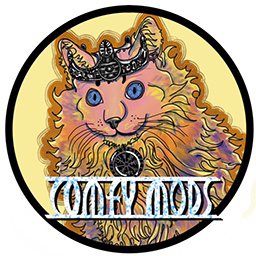
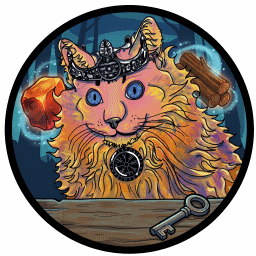
Update PutMeDown to `v1.3.0`.
* Updated for the `v1.0.21` patch.
* Migrated to SDK-style project.
* Updated mod-icon.
* Minor code clean-up and refactoring.

diff --git a/PutMeDown/ComfyLib/Config/ToggleStringListConfigEntry.cs b/PutMeDown/ComfyLib/Config/ToggleStringListConfigEntry.cs
@@ -1,8 +1,7 @@
-namespace ComfyLib;
+namespace ComfyLib;
 
 using System;
 using System.Collections.Generic;
-using System.Linq;
 
 using BepInEx.Configuration;
 
@@ -33,21 +32,30 @@ public sealed class ToggleStringListConfigEntry {
     SettingChanged?.Invoke(this, ToggledStringValues());
   }
 
-  static readonly char[] _valueSeparator = { ',' };
-  static readonly char[] _toggleSeperator = { '=' };
-
-  readonly List<string> _valuesCache = new();
+  readonly List<string> _valuesCache = [];
   string _valueText = string.Empty;
+
+  static bool IsToggledOn(ReadOnlySpan<char> value) {
+    return value.Length == 1 && value[0] == '1';
+  }
 
   public string[] ToggledStringValues() {
     _valuesCache.Clear();
-    string[] values = BaseConfigEntry.Value.Split(_valueSeparator, StringSplitOptions.RemoveEmptyEntries);
+    ReadOnlySpan<char> span = BaseConfigEntry.Value.AsSpan();
 
-    for (int i = 0, count = values.Length; i < count; i++) {
-      string[] parts = values[i].Split(_toggleSeperator, 2, StringSplitOptions.RemoveEmptyEntries);
+    while (!span.IsEmpty) {
+      int commaIndex = span.IndexOf(',');
+      ReadOnlySpan<char> entry = commaIndex >= 0 ? span[..commaIndex] : span;
+      span = commaIndex >= 0 ? span[(commaIndex + 1)..] : [];
 
-      if (parts.Length >= 2 && parts[1] == "1") {
-        _valuesCache.Add(parts[0]);
+      if (entry.IsEmpty) {
+        continue;
+      }
+
+      int equalsIndex = entry.IndexOf('=');
+
+      if (equalsIndex > 0 && IsToggledOn(entry[(equalsIndex + 1)..])) {
+        _valuesCache.Add(entry[..equalsIndex].ToString());
       }
     }
 
@@ -58,9 +66,17 @@ public sealed class ToggleStringListConfigEntry {
     GUILayout.BeginVertical(GUILayout.ExpandWidth(true));
 
     _valuesCache.Clear();
+    ReadOnlySpan<char> span = BaseConfigEntry.Value.AsSpan();
 
-    _valuesCache.AddRange(
-        configEntry.BoxedValue.ToString().Split(_valueSeparator, StringSplitOptions.RemoveEmptyEntries));
+    while (!span.IsEmpty) {
+      int commaIndex = span.IndexOf(',');
+      ReadOnlySpan<char> entry = commaIndex >= 0 ? span[..commaIndex] : span;
+      span = commaIndex >= 0 ? span[(commaIndex + 1)..] : [];
+
+      if (!entry.IsEmpty) {
+        _valuesCache.Add(entry.ToString());
+      }
+    }
 
     GUILayout.BeginHorizontal();
     bool toggleOnClicked = GUILayout.Button("Toggle On", GUILayout.ExpandWidth(true));
@@ -71,12 +87,14 @@ public sealed class ToggleStringListConfigEntry {
     int removeIndex = -1;
 
     for (int i = 0, count = _valuesCache.Count; i < count; i++) {
-      string[] parts = _valuesCache[i].Split(_toggleSeperator, 2, StringSplitOptions.RemoveEmptyEntries);
-      bool isToggled = parts.Length >= 2 && parts[1] == "1";
+      ReadOnlySpan<char> entry = _valuesCache[i].AsSpan();
+      int equalsIndex = entry.IndexOf('=');
+      bool isToggled = equalsIndex > 0 && IsToggledOn(entry[(equalsIndex + 1)..]);
+      string label = equalsIndex > 0 ? entry[..equalsIndex].ToString() : _valuesCache[i];
 
       GUILayout.BeginHorizontal();
 
-      bool result = GUILayout.Toggle(isToggled, parts[0], GUILayout.ExpandWidth(true));
+      bool result = GUILayout.Toggle(isToggled, label, GUILayout.ExpandWidth(true));
 
       if (GUILayout.Button("\u2212", GUILayout.MinWidth(40f), GUILayout.ExpandWidth(false))) {
         removeIndex = i;
@@ -92,7 +110,7 @@ public sealed class ToggleStringListConfigEntry {
 
       if (result != isToggled) {
         hasChanged = true;
-        _valuesCache[i] = parts[0] + (result ? "=1" : "=0");
+        _valuesCache[i] = label + (result ? "=1" : "=0");
       }
     }
 
@@ -128,7 +146,7 @@ public sealed class ToggleStringListConfigEntry {
     }
 
     if (hasChanged) {
-      configEntry.BoxedValue = string.Join(",", _valuesCache);
+      BaseConfigEntry.Value = string.Join(",", _valuesCache);
     }
   }
 
@@ -155,7 +173,7 @@ public sealed class ToggleStringListConfigEntry {
     public AutoCompleteBox(Func<IEnumerable<SearchOption>> searchOptionsFunc) {
       _searchOptionsFunc = searchOptionsFunc;
       _options = null;
-      _currentOptions = new();
+      _currentOptions = [];
       _value = string.Empty;
       _scrollPosition = Vector2.zero;
     }
@@ -163,18 +181,7 @@ public sealed class ToggleStringListConfigEntry {
     public string DrawBox(string value) {
       if (_value != value) {
         _value = value;
-        _currentOptions.Clear();
-
-        if (!string.IsNullOrEmpty(value)) {
-          _options ??= new(_searchOptionsFunc());
-
-          _currentOptions.AddRange(
-              _options.Where(
-                  option =>
-                      option.DisplayValue.IndexOf(value, StringComparison.InvariantCultureIgnoreCase) >= 0
-                      || option.OptionValue.StartsWith(value, StringComparison.InvariantCultureIgnoreCase)));
-        }
-
+        FilterOptions(_value);
         _scrollPosition = Vector2.zero;
       }
 
@@ -183,6 +190,23 @@ public sealed class ToggleStringListConfigEntry {
       }
 
       return DrawCurrentOptions();
+    }
+
+    void FilterOptions(string query) {
+      _currentOptions.Clear();
+
+      if (string.IsNullOrEmpty(query)) {
+        return;
+      }
+
+      _options ??= [.. _searchOptionsFunc()];
+
+      foreach (SearchOption option in _options) {
+        if (option.DisplayValue.IndexOf(query, StringComparison.OrdinalIgnoreCase) >= 0
+            || option.OptionValue.StartsWith(query, StringComparison.OrdinalIgnoreCase)) {
+          _currentOptions.Add(option);
+        }
+      }
     }
 
     string DrawCurrentOptions() {

diff --git a/PutMeDown/Config/PluginConfig.cs b/PutMeDown/Config/PluginConfig.cs
@@ -1,11 +1,12 @@
-namespace PutMeDown;
+namespace PutMeDown;
 
 using System.Collections.Generic;
-using System.Linq;
 
 using BepInEx.Configuration;
 
 using ComfyLib;
+
+using UnityEngine;
 
 public static class PluginConfig {
   public static ConfigEntry<bool> IsModEnabled { get; private set; }
@@ -18,7 +19,12 @@ public static class PluginConfig {
 
   [ComfyConfig]
   public static void BindConfig(ConfigFile config) {
-    IsModEnabled = config.BindInOrder("_Global", "isModEnabled", true, "Globally enable or disable this mod.");
+    IsModEnabled =
+        config.BindInOrder(
+            "_Global",
+            "isModEnabled",
+            true,
+            "Globally enable or disable this mod.");
   }
 
   [ComfyConfig(LateBind = true)]
@@ -72,7 +78,7 @@ public static class PluginConfig {
     CycleItemsToIgnoreConfig();
   }
 
-  static readonly List<ToggleStringListConfigEntry> _itemsToIgnoreConfigs = new();
+  static readonly List<ToggleStringListConfigEntry> _itemsToIgnoreConfigs = [];
   static int _itemsToIgnoreConfigIndex = -1;
   static ToggleStringListConfigEntry _itemsToIgnoreConfig = default;
 
@@ -93,19 +99,20 @@ public static class PluginConfig {
     }
   }
 
-  public static IEnumerable<ToggleStringListConfigEntry.SearchOption> GetItemDropSearchOptions() {
-    return ObjectDB.m_instance.m_items
-        .Where(
-            item =>
-                item.TryGetComponent(out ItemDrop itemDrop)
-                && itemDrop.m_autoPickup
-                && itemDrop.m_itemData.m_shared.m_icons.Length > 0
-                && !string.IsNullOrEmpty(itemDrop.m_itemData.m_shared.m_description))
-        .Select(
-            item =>
-                new ToggleStringListConfigEntry.SearchOption(
-                    item.name,
-                    Localization.m_instance.Localize(item.GetComponent<ItemDrop>().m_itemData.m_shared.m_name)
-                        + $" ({item.name})"));
+  public static List<ToggleStringListConfigEntry.SearchOption> GetItemDropSearchOptions() {
+    List<ToggleStringListConfigEntry.SearchOption> options = [];
+
+    foreach (GameObject item in ObjectDB.m_instance.m_items) {
+      if (item.TryGetComponent(out ItemDrop itemDrop)
+          && itemDrop.m_autoPickup
+          && itemDrop.m_itemData.m_shared.m_icons.Length > 0
+          && !string.IsNullOrEmpty(itemDrop.m_itemData.m_shared.m_description)) {
+        string name = Localization.m_instance.Localize(itemDrop.m_itemData.m_shared.m_name);
+
+        options.Add(new(item.name, $"{name} ({item.name})"));
+      }
+    }
+
+    return options;
   }
 }

diff --git a/PutMeDown/Patches/PlayerPatch.cs b/PutMeDown/Patches/PlayerPatch.cs
@@ -1,4 +1,4 @@
-namespace PutMeDown;
+namespace PutMeDown;
 
 using System.Collections.Generic;
 using System.Reflection.Emit;
@@ -13,21 +13,21 @@ static class PlayerPatch {
   [HarmonyPatch(nameof(Player.AutoPickup))]
   static IEnumerable<CodeInstruction> AutoPickupTranspiler(IEnumerable<CodeInstruction> instructions) {
     return new CodeMatcher(instructions)
-        .MatchForward(
-            useEnd: false,
+        .Start()
+        .MatchStartForward(
             new CodeMatch(OpCodes.Ldloc_S),
             new CodeMatch(OpCodes.Ldfld, AccessTools.Field(typeof(ItemDrop), nameof(ItemDrop.m_autoPickup))))
-        .ThrowIfInvalid("Could not patch Player.AutoPickup()! (m_autoPickup)")
+        .ThrowIfInvalid("Could not patch Player.AutoPickup()! (auto-pickup)")
         .CopyInstruction(out CodeInstruction loadItemDropInstruction)
         .Advance(offset: 2)
         .InsertAndAdvance(
             loadItemDropInstruction,
-            Transpilers.EmitDelegate(AutoPickupDelegate))
+            new CodeInstruction(OpCodes.Call, AccessTools.Method(typeof(PlayerPatch), nameof(AutoPickupDelegate))))
         .InstructionEnumeration();
   }
 
   static CodeMatcher CopyInstruction(this CodeMatcher matcher, out CodeInstruction instruction) {
-    instruction = matcher.Instruction;
+    instruction = new CodeInstruction(matcher.Opcode, matcher.Operand);
     return matcher;
   }
 
@@ -43,15 +43,14 @@ static class PlayerPatch {
   [HarmonyPatch(nameof(Player.Update))]
   static IEnumerable<CodeInstruction> UpdateTranspiler(IEnumerable<CodeInstruction> instructions) {
     return new CodeMatcher(instructions)
-        .MatchForward(
-            useEnd: false,
-            new CodeMatch(OpCodes.Ldarg_0),
+        .Start()
+        .MatchStartForward(
             new CodeMatch(OpCodes.Call, AccessTools.Method(typeof(Player), nameof(Player.UpdateHover))))
-        .ThrowIfInvalid("Could not patch Player.Update()! (UpdateHover)")
-        .Advance(offset: 2)
+        .ThrowIfInvalid($"Could not patch Player.Update()! (update-hover)")
+        .Advance(offset: 1)
         .InsertAndAdvance(
             new CodeInstruction(OpCodes.Ldloc_1),
-            Transpilers.EmitDelegate(UpdateHoverPostDelegate))
+            new CodeInstruction(OpCodes.Call, AccessTools.Method(typeof(PlayerPatch), nameof(UpdateHoverPostDelegate))))
         .InstructionEnumeration();
   }
 

diff --git a/PutMeDown/PutMeDown.cs b/PutMeDown/PutMeDown.cs
@@ -1,4 +1,4 @@
-namespace PutMeDown;
+namespace PutMeDown;
 
 using System;
 using System.Globalization;
@@ -15,20 +15,15 @@ using HarmonyLib;
 public sealed class PutMeDown : BaseUnityPlugin {
   public const string PluginGuid = "redseiko.valheim.putmedown";
   public const string PluginName = "PutMeDown";
-  public const string PluginVersion = "1.2.0";
+  public const string PluginVersion = "1.3.0";
 
   static ManualLogSource _logger;
-  Harmony _harmony;
 
   void Awake() {
     _logger = Logger;
     ComfyConfigUtils.BindConfig(Config);
 
-    _harmony = Harmony.CreateAndPatchAll(Assembly.GetExecutingAssembly(), harmonyInstanceId: PluginGuid);
-  }
-
-  void OnDestroy() {
-    _harmony?.UnpatchSelf();
+    Harmony.CreateAndPatchAll(Assembly.GetExecutingAssembly(), harmonyInstanceId: PluginGuid);
   }
 
   public static void LogInfo(object obj) {

diff --git a/PutMeDown/ComfyLib/Config/ComfyConfig.cs b/PutMeDown/ComfyLib/Config/ComfyConfig.cs
@@ -1,4 +1,4 @@
-namespace ComfyLib;
+namespace ComfyLib;
 
 using System;
 using System.Collections.Generic;
@@ -50,9 +50,9 @@ public static class ComfyConfigUtils {
 
     public static void Bind(ConfigFile config, MethodInfo method, ComfyConfigAttribute attribute) {
       if (!attribute.LateBind || _startupPatched) {
-        method.Invoke(null, new object[] { config });
+        method.Invoke(null, [config]);
       } else {
-        _lateBindQueue.Enqueue(() => method.Invoke(null, new object[] { config }));
+        _lateBindQueue.Enqueue(() => method.Invoke(null, [config]));
       }
     }
 

diff --git a/PutMeDown/ComfyLib/Extensions/ConfigFileExtensions.cs b/PutMeDown/ComfyLib/Extensions/ConfigFileExtensions.cs
@@ -1,4 +1,4 @@
-namespace ComfyLib;
+namespace ComfyLib;
 
 using System;
 using System.Collections.Generic;
@@ -6,7 +6,7 @@ using System.Collections.Generic;
 using BepInEx.Configuration;
 
 public static class ConfigFileExtensions {
-  static readonly Dictionary<string, int> _sectionToSettingOrder = new();
+  static readonly Dictionary<string, int> _sectionToSettingOrder = [];
 
   static int GetSettingOrder(string section) {
     if (!_sectionToSettingOrder.TryGetValue(section, out int order)) {

diff --git a/PutMeDown/Core/AutoPickupController.cs b/PutMeDown/Core/AutoPickupController.cs
@@ -1,9 +1,9 @@
-namespace PutMeDown;
+namespace PutMeDown;
 
 using System.Collections.Generic;
 
 public static class AutoPickupController {
-  static readonly HashSet<string> _itemsToIgnore = new();
+  static readonly HashSet<string> _itemsToIgnore = [];
 
   public static void SetItemsToIgnore(IEnumerable<string> itemsToIgnore) {
     _itemsToIgnore.Clear();

diff --git a/PutMeDown/Properties/AssemblyInfo.cs b/PutMeDown/Properties/AssemblyInfo.cs
@@ -1,4 +1,4 @@
-using System.Reflection;
+using System.Reflection;
 using System.Runtime.InteropServices;
 
 [assembly: AssemblyTitle("PutMeDown")]

diff --git a/PutMeDown/CHANGELOG.md b/PutMeDown/CHANGELOG.md
@@ -1,5 +1,12 @@
 ## Changelog
 
+### 1.3.0
+
+  * Updated for the `v1.0.21` patch.
+  * Migrated to SDK-style project.
+  * Updated mod-icon.
+  * Minor code clean-up and refactoring.
+
 ### 1.2.0
 
   * Moved changelog into `CHANGELOG.md`.
